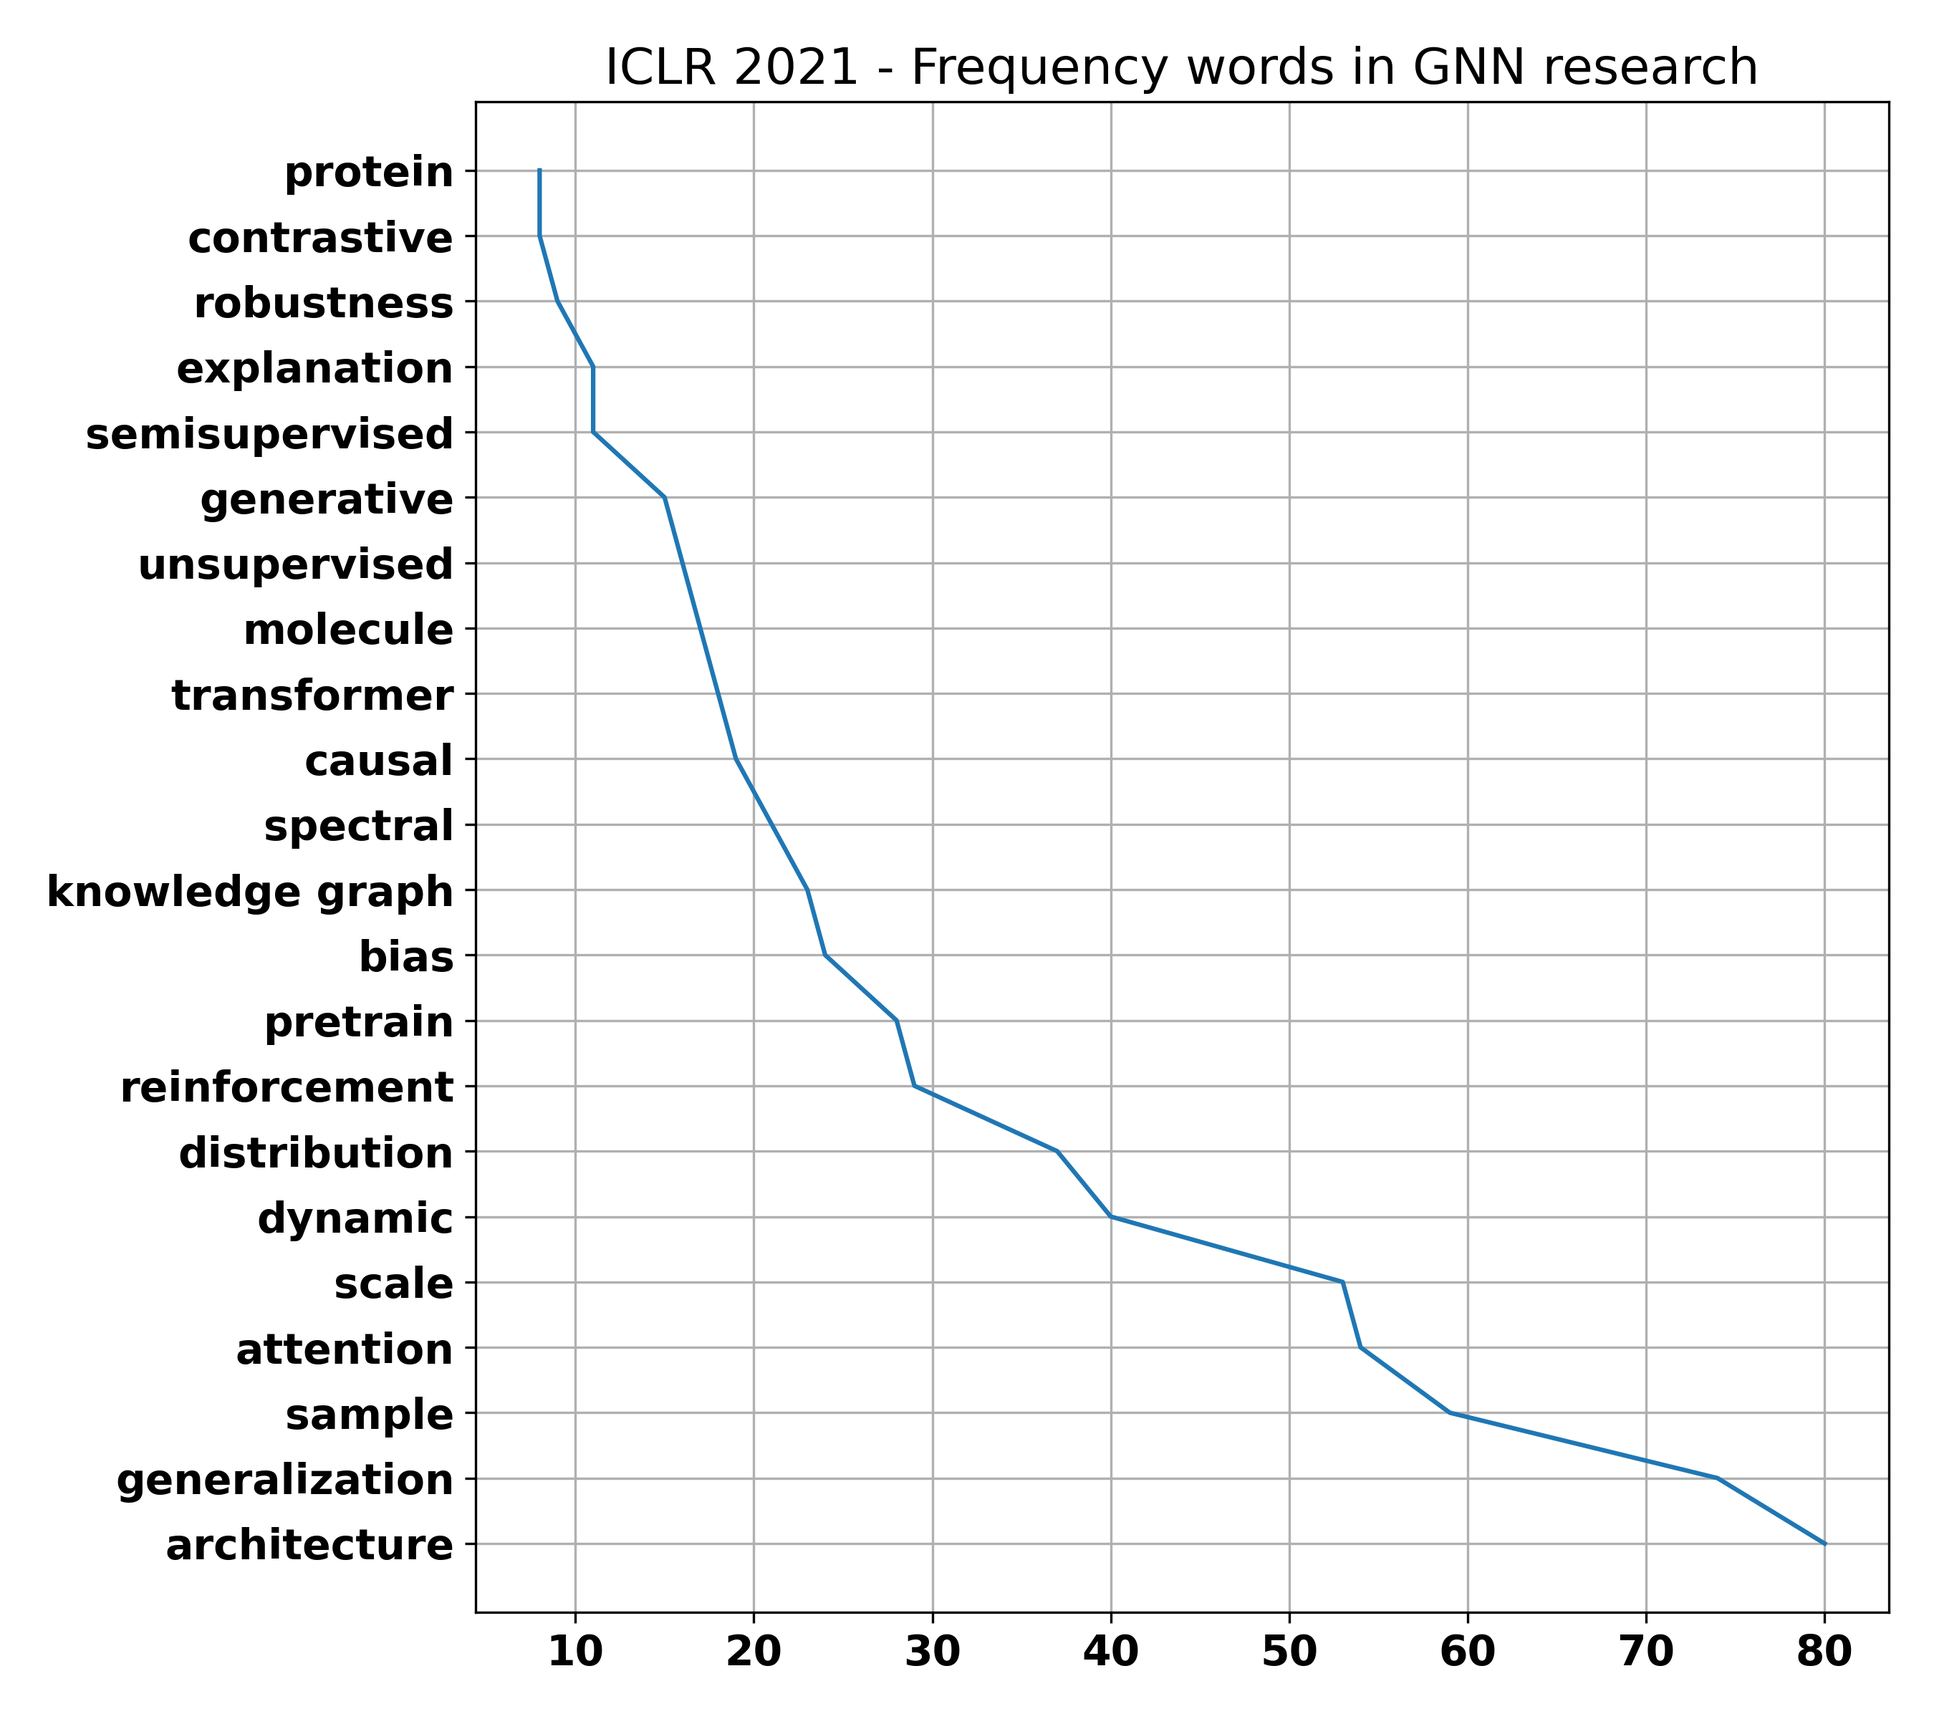
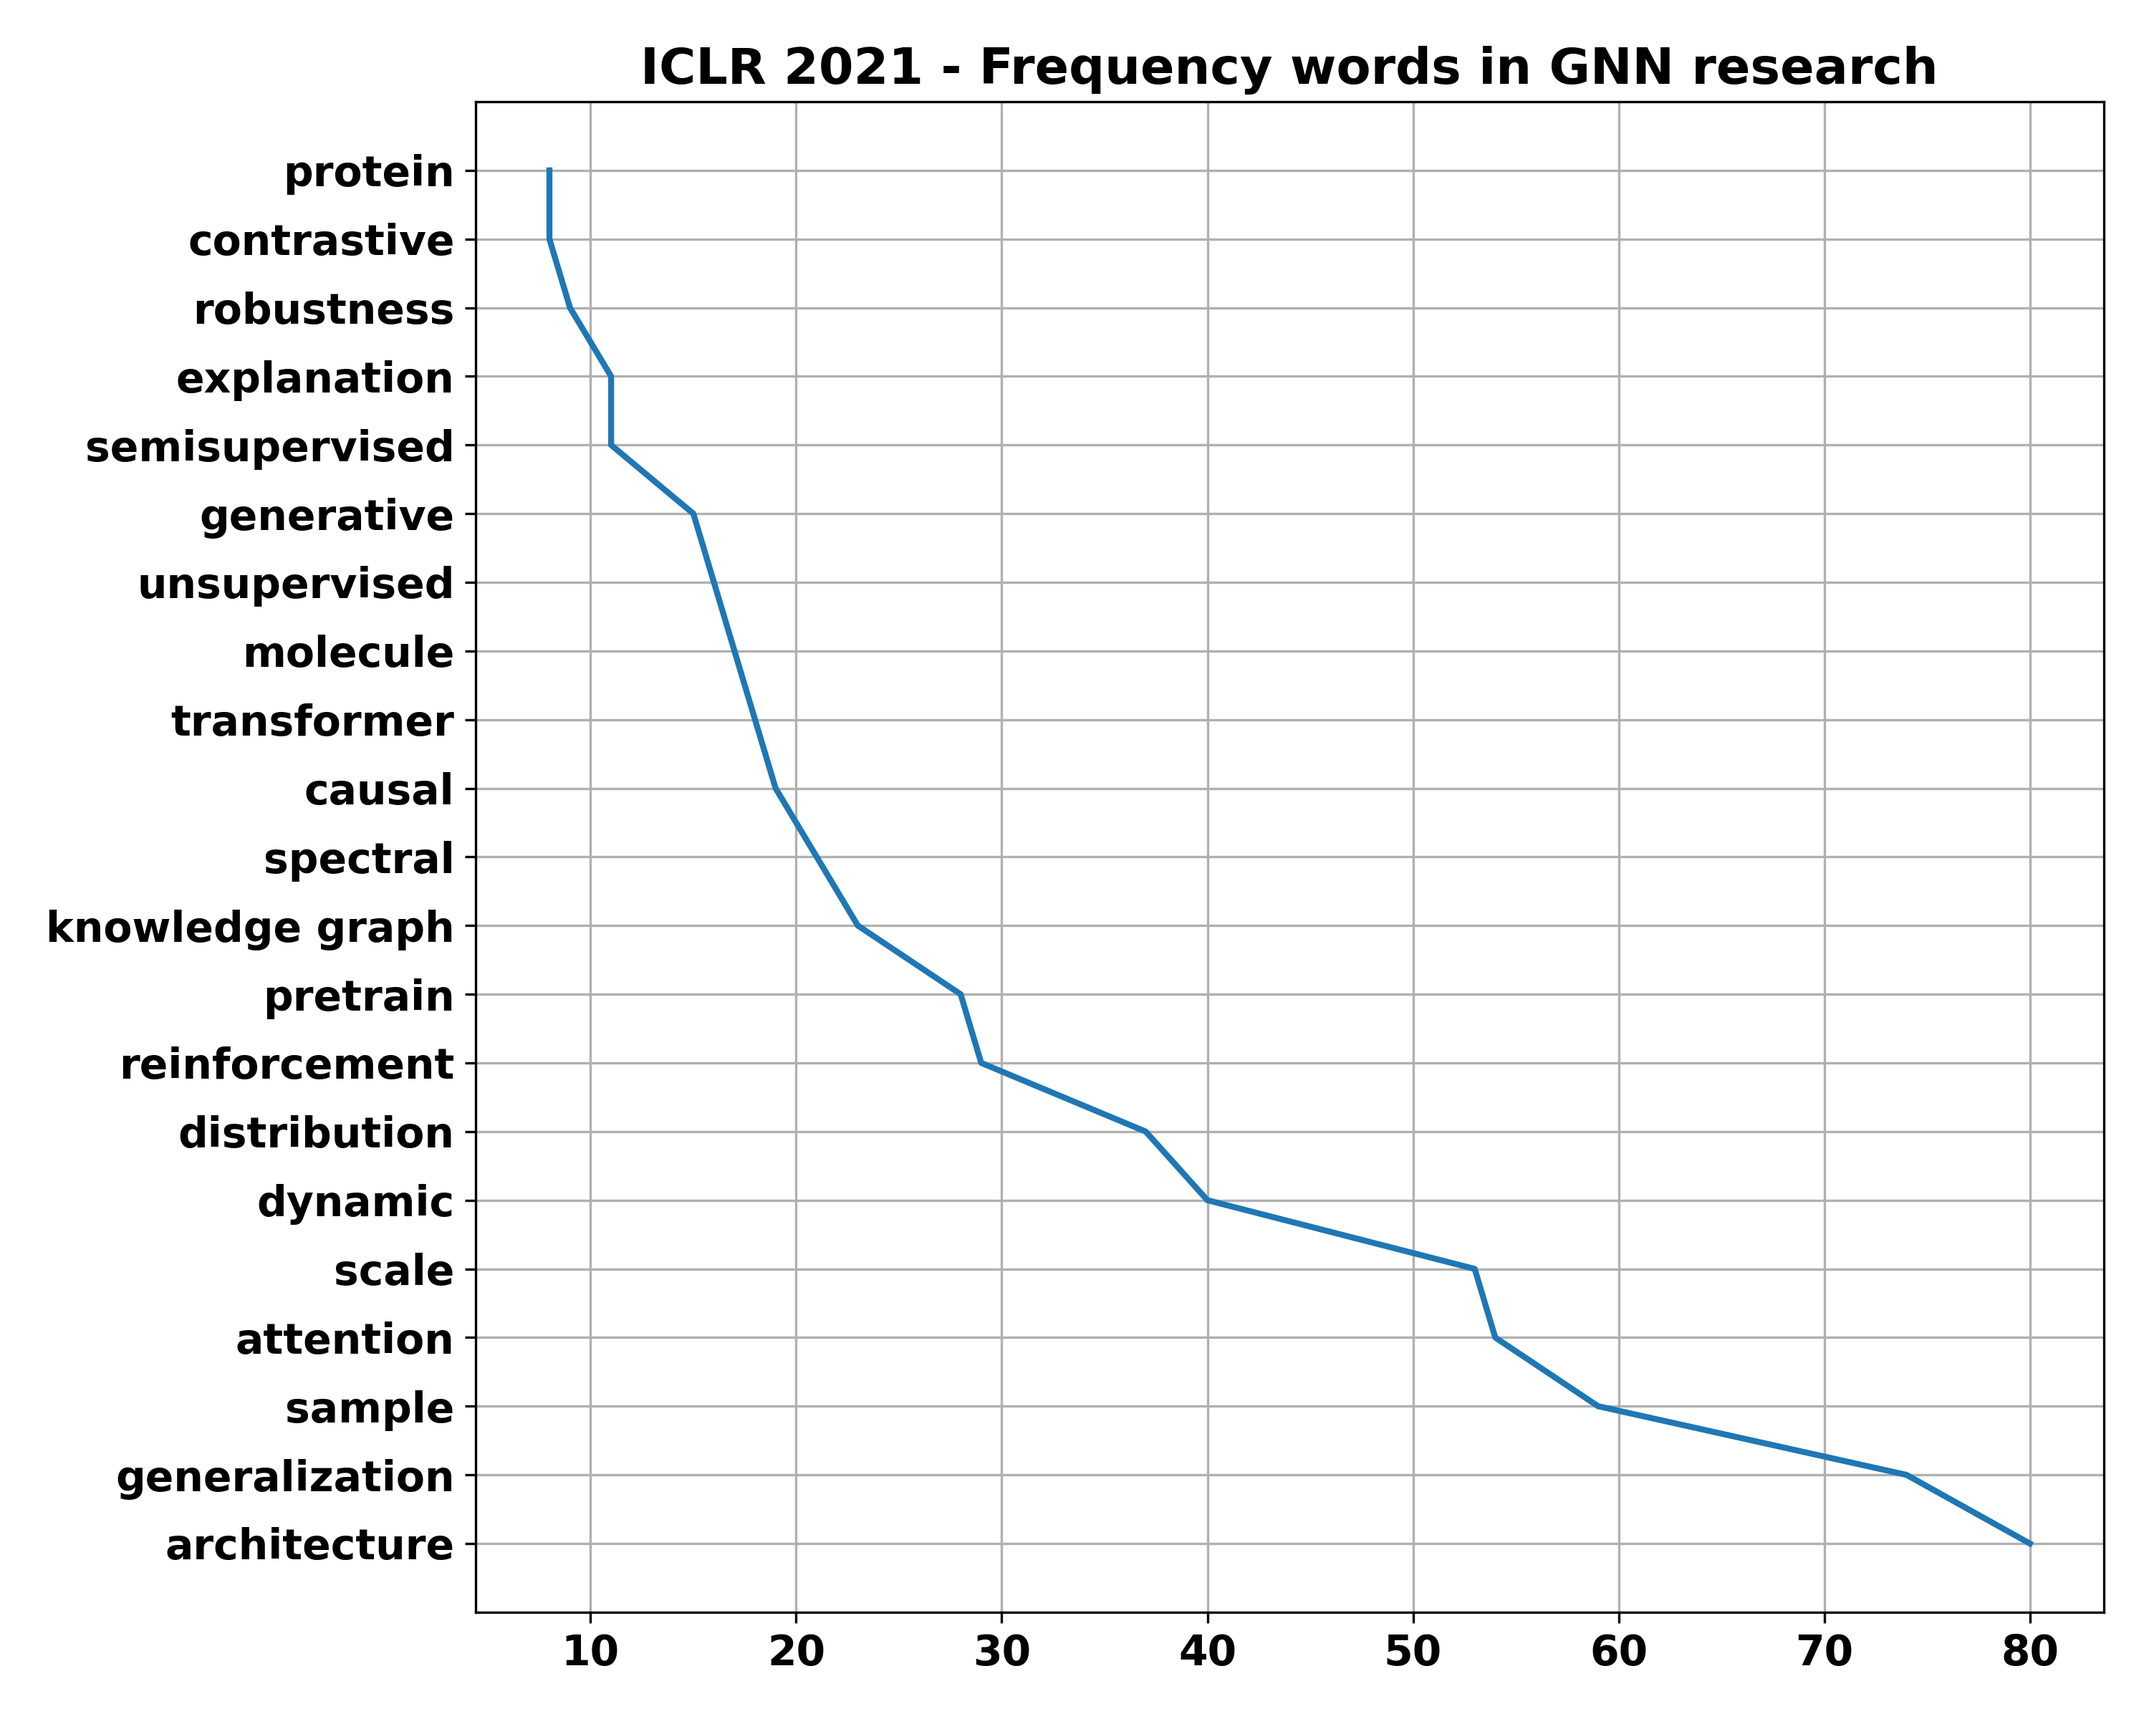
add trend

diff --git a/generate_wordcloud.py b/generate_wordcloud.py
@@ -20,10 +20,11 @@ from nltk.tokenize import word_tokenize
 nltk.download('punkt')
 
 fdists = {}
+values = []
 interest_list = ['molecule', 'protein', 'transformer', 'causal', 'sample', 'generalization',\
                  'contrastive', 'dynamic', 'spectral', 'distribution', 'pretrain', 'architecture',\
                  'scale', 'attention', 'unsupervised', 'semisupervised', 'robustness',\
-                 'bias', 'explanation', 'generative', 'knowledge graph', 'reinforcement']
+                 'explanation', 'generative', 'knowledge graph', 'reinforcement']
 
 font = {'weight' : 'bold',
         'size'   : 14}
@@ -46,12 +47,12 @@ for year in [2021, 2022, 2023]:
     
     # lower max_font_size
     if False:
-        wordcloud = WordCloud(max_font_size=60, width=1200, height=700).generate(all_text)
+        wordcloud = WordCloud(max_font_size=60, width=1200, height=700, background_color="white", colormap='Set2').generate(all_text)
         plt.figure(figsize=(12,7))
         plt.imshow(wordcloud, interpolation="bilinear")
         plt.axis("off")
         plt.tight_layout()
-        plt.savefig(f'figures/{year}.png', dpi=500)
+        plt.savefig(f'figures/{year}.png', dpi=700)
         plt.cla()
     
     text_list = []
@@ -70,15 +71,57 @@ for year in [2021, 2022, 2023]:
                 text_list.append(i_w)
                 break
     fdist = FreqDist(text_list)
-    plt.figure(figsize=(9, 8))
+    plt.figure(figsize=(10, 8))
     _dict = {i_w: fdist[i_w] for i_w in interest_list}
     
     index = np.argsort(-np.array(list(_dict.values())))
-    plt.plot(np.array(list(_dict.values()))[index], np.array(list(_dict.keys()))[index])
-    plt.title(f'ICLR {year} - Frequency words in GNN research')
+    print(np.array(list(_dict.values()))[index]/np.array(list(_dict.values()))[index].sum())
+    plt.plot(np.array(list(_dict.values()))[index], np.array(list(_dict.keys()))[index], linewidth=2)
+    plt.title(f'ICLR {year} - Frequency words in GNN research', weight='bold')
     plt.grid()
     plt.tight_layout()
     plt.savefig(f'figures/{year}-dist.png', dpi=300)
     plt.cla()
-    fdists[year] = fdist
+    
+    increase_index = np.argsort(np.array(list(_dict.values())))
+    rank = np.zeros(len(interest_list))
+    rank[increase_index] = np.arange(len(interest_list)) + 1
+    values.append(rank)
+    
+# positive 
+interest_list = np.array(interest_list)
+idx = {'pos': (values[-1] >= values[0]) * (values[-1] >= values[1])  * (values[1] >= values[0]), 'neg': (values[-1] < values[0]) * (values[1] < values[0]) * (values[1] > values[-1])}
+for key in ['pos', 'neg']:
+    
+    font = {'weight' : 'bold',
+            'size'   : 40}
+    matplotlib.rc('font', **font)
+    idx_key = idx[key]
+    barWidth = 0.25
+    fig = plt.subplots(figsize =(30, 8))
+    
+    # Set position of bar on X axis
+    br1 = np.arange(len(interest_list[idx_key]))
+    br2 = [x + barWidth for x in br1]
+    br3 = [x + barWidth for x in br2]
+    
+    # Make the plot
+    plt.bar(br1, values[0][idx_key], color ='r', width = barWidth,
+            edgecolor ='grey', label ='2021')
+    plt.bar(br2, values[1][idx_key], color ='g', width = barWidth,
+            edgecolor ='grey', label ='2022')
+    plt.bar(br3, values[2][idx_key], color ='b', width = barWidth,
+            edgecolor ='grey', label ='2023')
+    
+    # Adding Xticks
+    plt.ylabel('Inversed Rank', fontweight ='bold', fontsize = 40)
+    plt.xticks([r + barWidth for r in range(len(interest_list[idx_key]))],
+                interest_list[idx_key])
 
+    plt.xticks(rotation=15)
+    plt.legend()
+    plt.tight_layout()
+    plt.savefig(f'figures/{key}_trend.png', dpi=300)
+
+    plt.show()
+    plt.cla()
